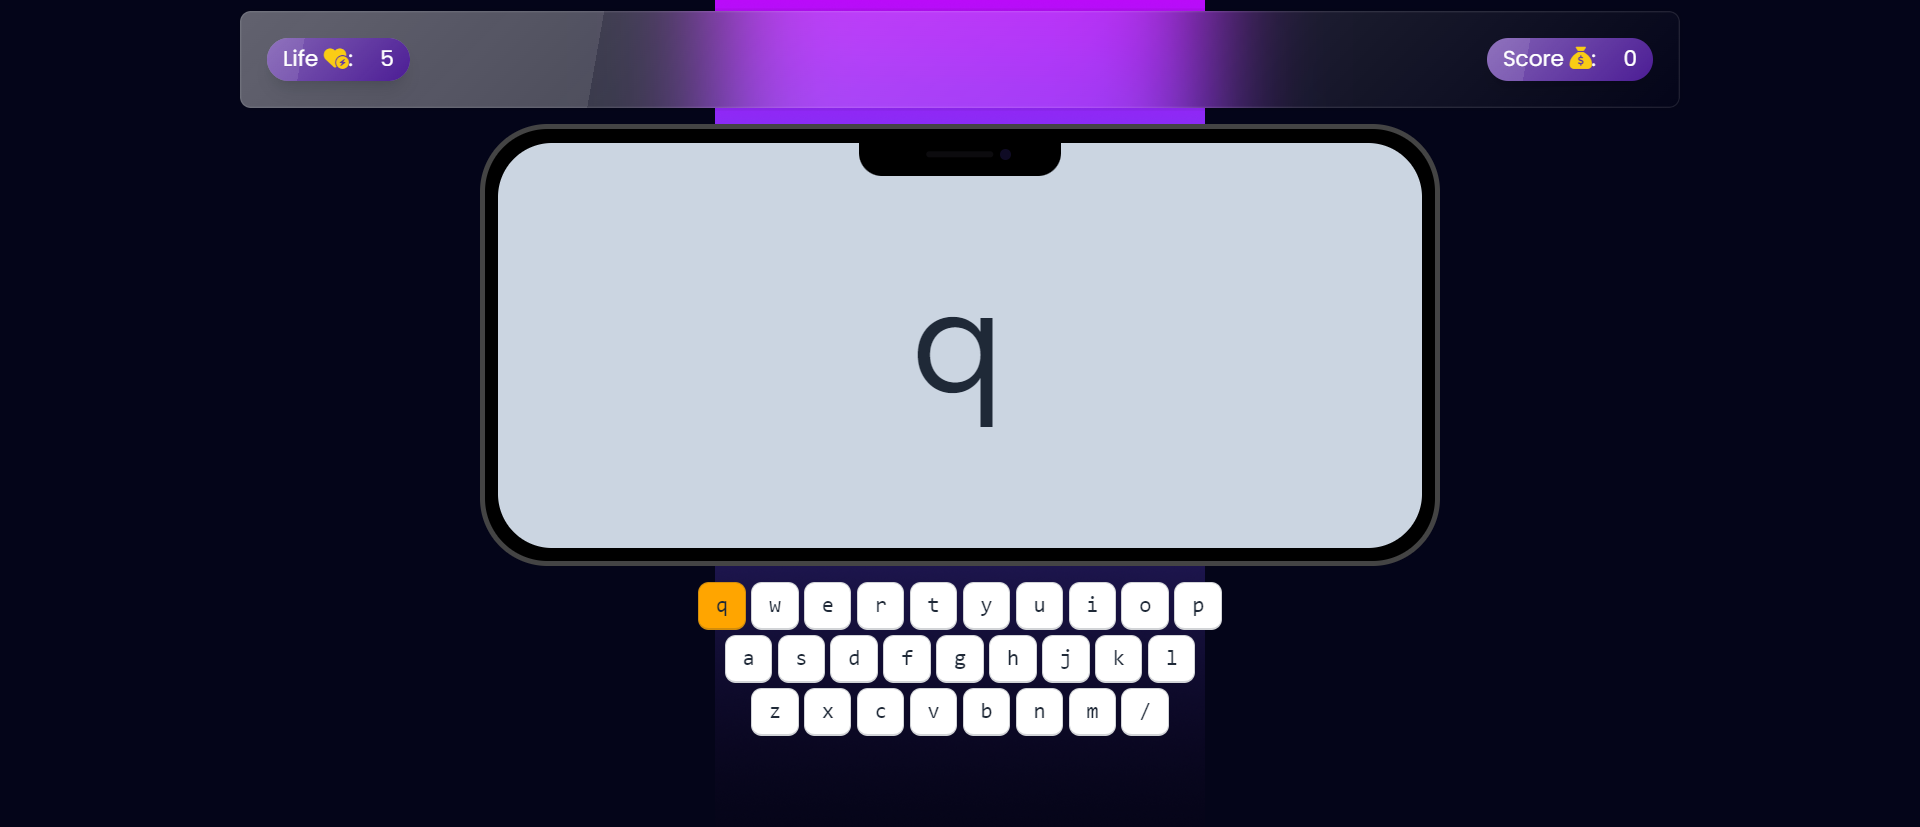
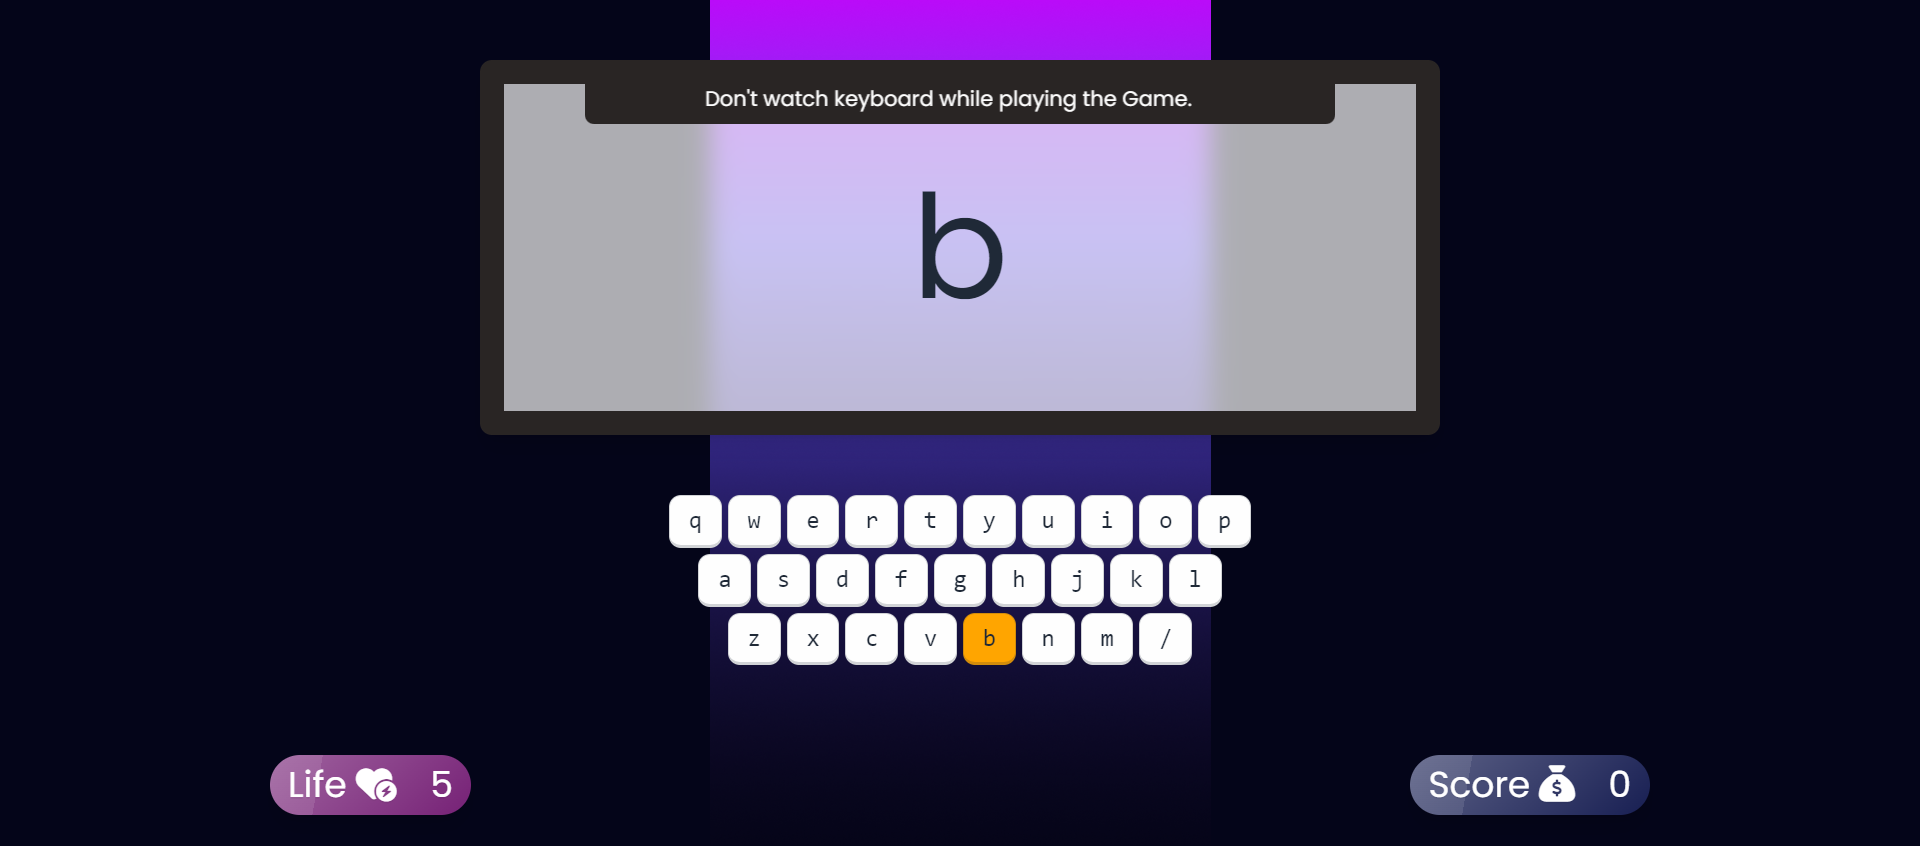
Add MArquee + change playground structure + submitted for review

diff --git a/index.html b/index.html
@@ -66,8 +66,13 @@
       <div class="content-box space-y-10 pt-10">
         <div
           id="screen"
-          class="w-6/12 h-[250px] border-[16px] shadow-lg border-stone-800 rounded-lg mx-auto bg-stone-100 bg-opacity-70 backdrop-blur flex justify-center items-center"
+          class="w-6/12 relative h-[250px] border-[16px] shadow-lg border-stone-800 rounded-lg mx-auto bg-stone-100 bg-opacity-70 backdrop-blur flex justify-center items-center"
         >
+          <div class="absolute top-0 bg-stone-800 text-white rounded-b-md">
+            <marquee direction="right" class="w-[300px] text-sm">
+              Don't watch keyboard while playing the Game.
+            </marquee>
+          </div>
           <p id="current-alphabet" class="text-8xl animate-bounce">a</p>
         </div>
 
